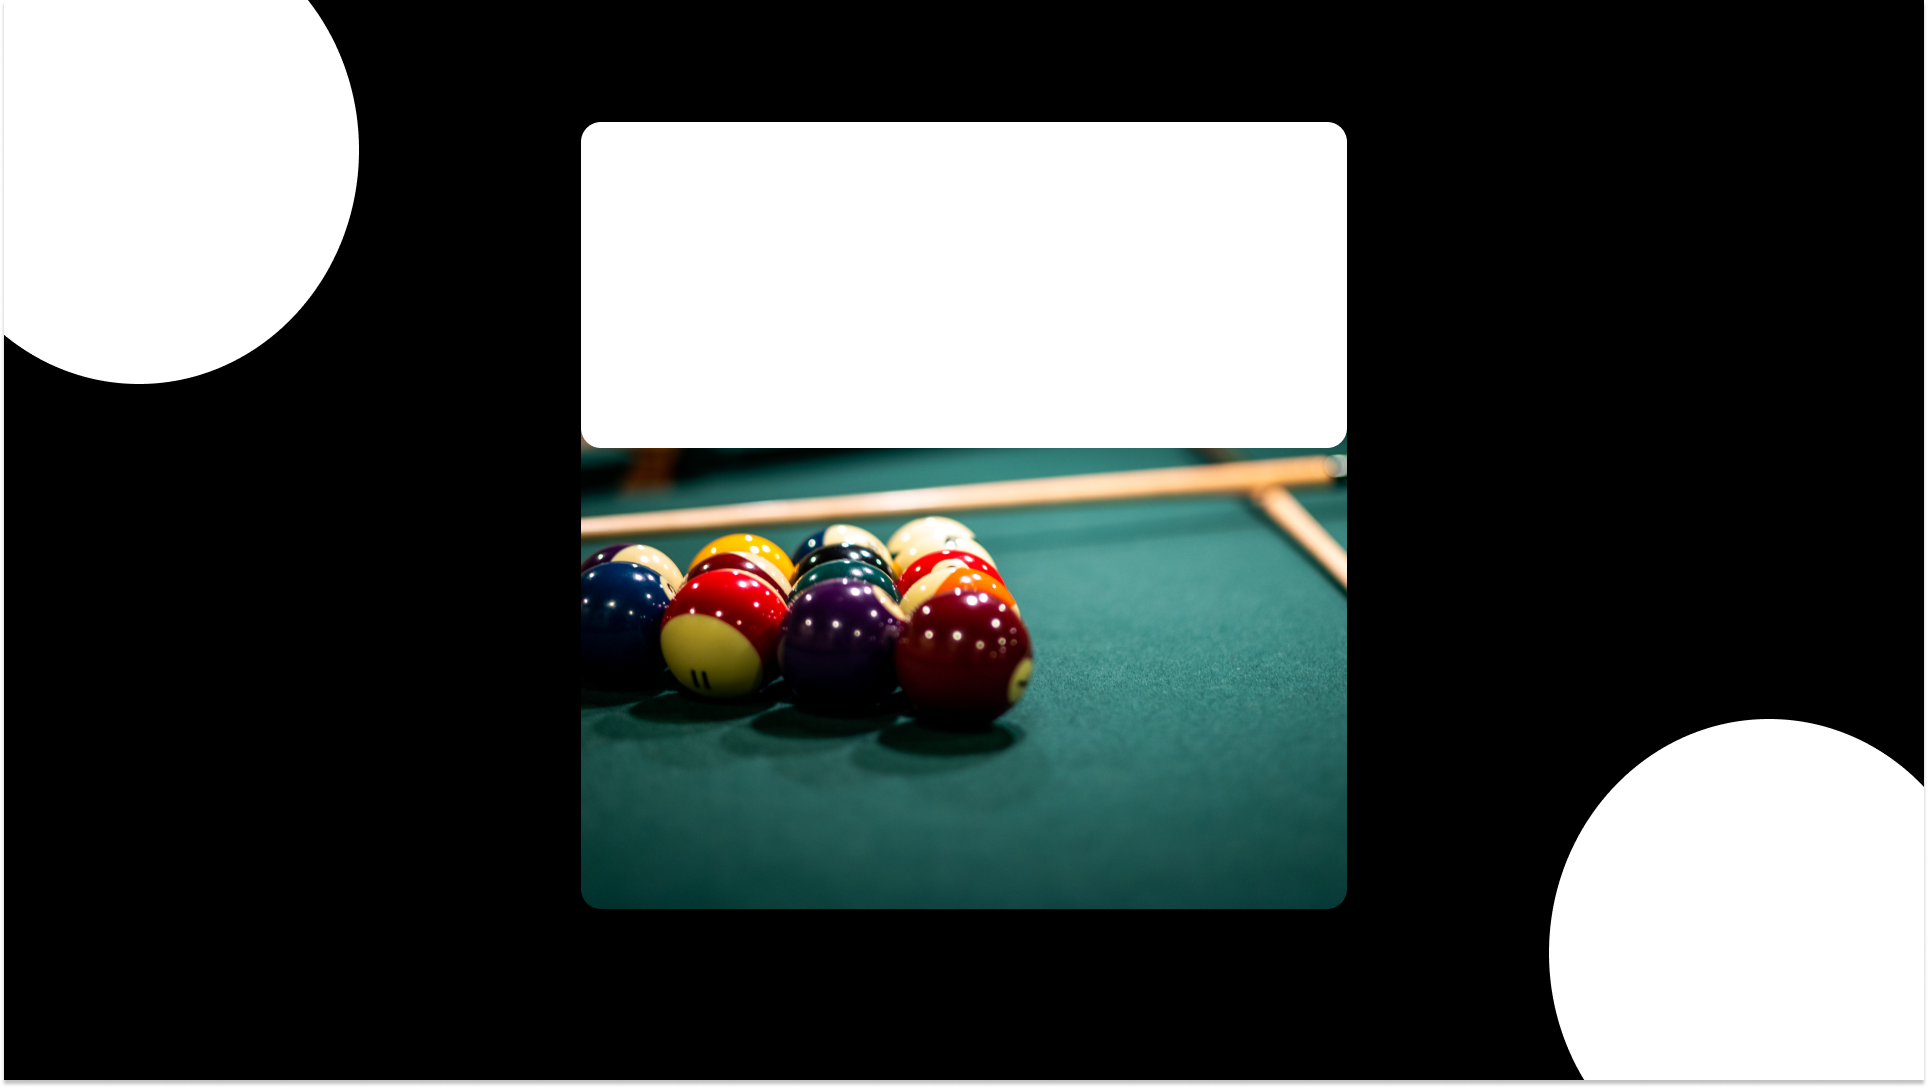
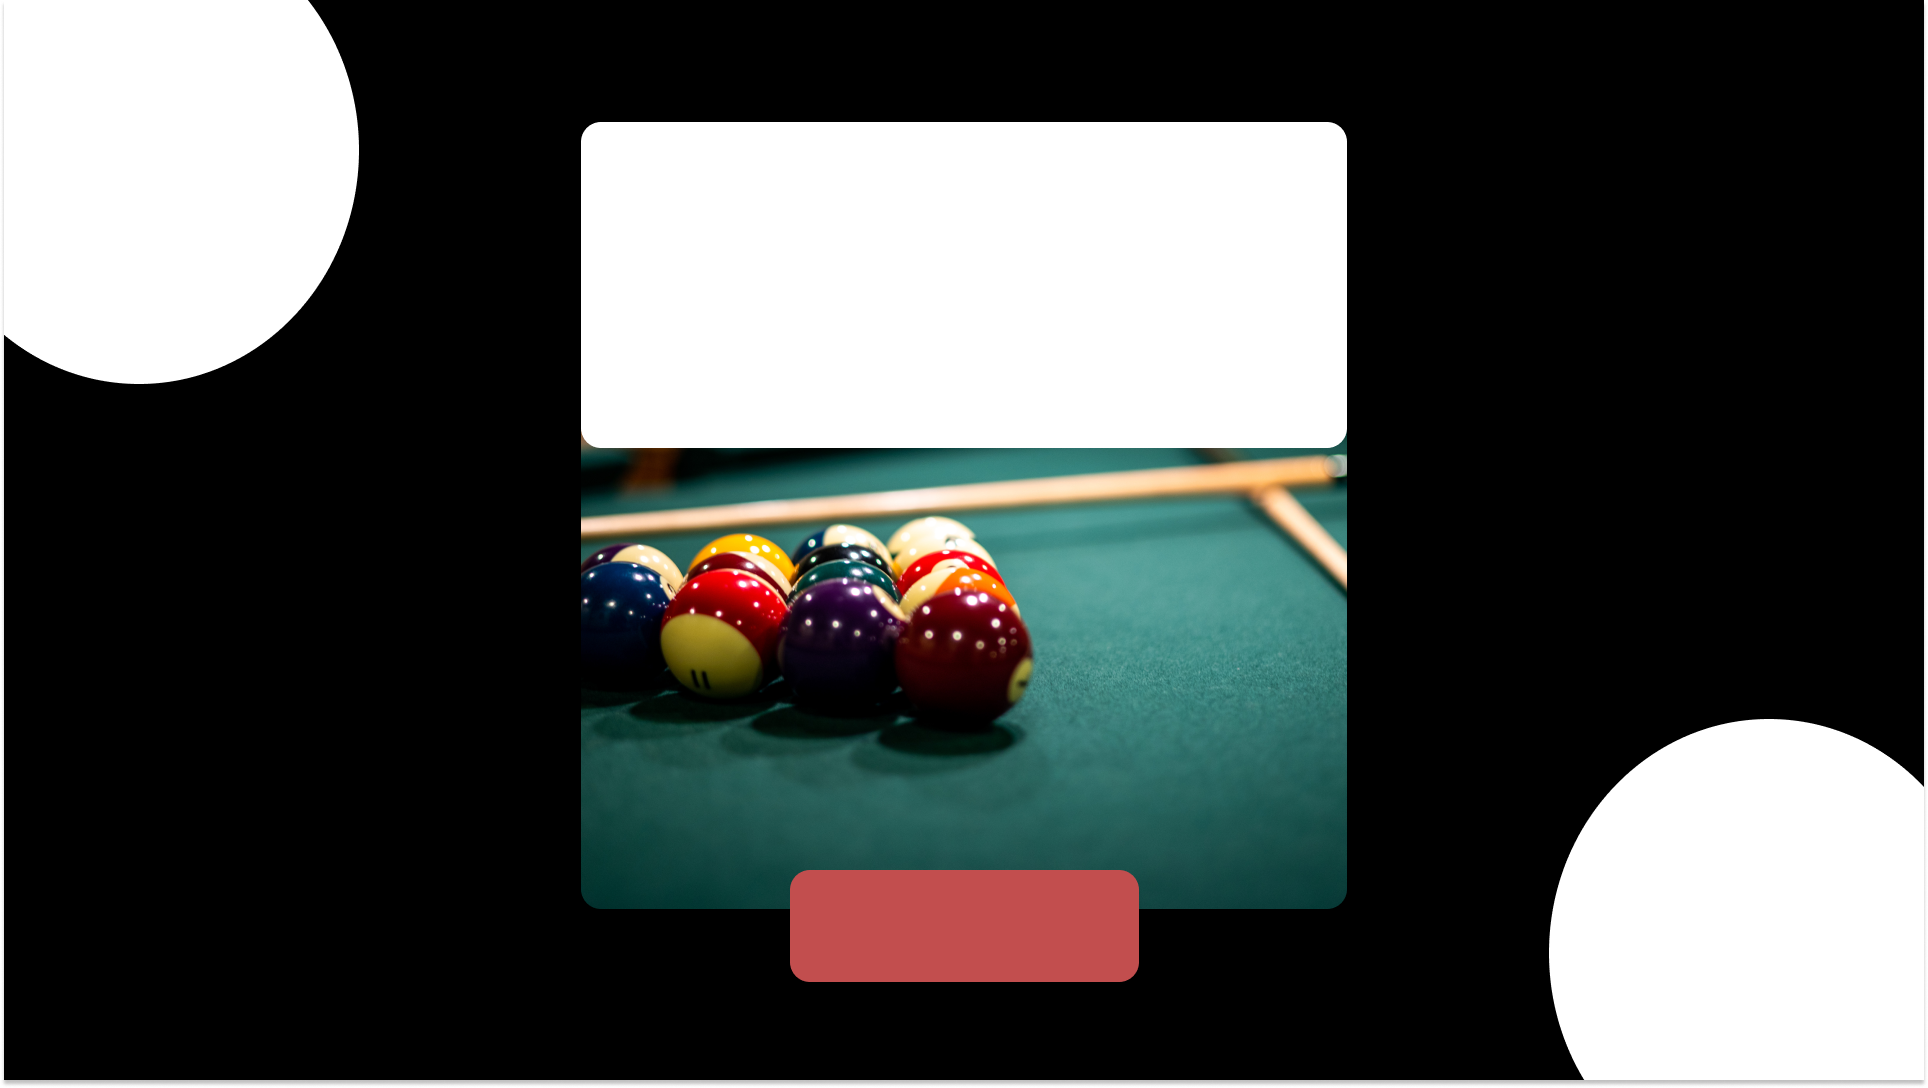
make many page

Changed region(s): [[0.4046, 0.7812, 0.5913, 0.9062]]

diff --git a/Pool-UI.py b/Pool-UI.py
@@ -19,7 +19,7 @@ class Sampleapp(tk.Tk):
         container.grid_columnconfigure(0, weight=1)  
         self.frames = {}  
   
-        for F in (StartPage, PageOne):  
+        for F in (StartPage, PageOne ,TrainMode, Pool8Mode):  
   
             frame = F(container, self)  
             self.frames[F] = frame  
@@ -30,39 +30,81 @@ class Sampleapp(tk.Tk):
     def show_frame(self, cont):  
         frame = self.frames[cont]  
         frame.tkraise()  
-  
-          
+        
+
 class StartPage(tk.Frame):  
   
     def __init__(self, parent, controller):  
         tk.Frame.__init__(self,parent)
         self.bg = PhotoImage(file="Bg-Firstpage.png")
+        self.bgbutton = PhotoImage(file="BG-Button.png")
         bg = Label(self, image=self.bg)
         bg.place(x=0, y=0)
-        button = Button(self, text="Visit Page 1",font=self.Myfont(40),  
+        button = Button(self,text="Start",bg="#C24E4E",fg="white", bd=0,activebackground="#C24E4E",font=self.Myfont(40),   
                             command=lambda: controller.show_frame(PageOne))  
-        button.pack()  
+        button.place(x=810,y=880,width=300,height=100)
+        my_text = Entry(self, justify=CENTER,bg="#FFFFFF",bd=0, font=self.Myfont(50))
+        my_text.insert(0, "Welcome")
+        my_text.pack(padx=140, pady=140)
+        my_tex1 = Entry(self, justify=CENTER,bg="#FFFFFF",bd=0, font=self.Myfont(50))
+        my_tex1.insert(0, "Pool Billiard Assistant")
+        my_tex1.pack(padx=0, pady=0)
 
     def Myfont(self, sizefont):
         self.myfont = Font(family="Londrina Solid", size=sizefont)
         return self.myfont
-  
+    
   
 class PageOne(tk.Frame):  
   
     def __init__(self, parent, controller):  
-        tk.Frame.__init__(self, parent)  
-        label = tk.Label(self, text="Page One!!!", font=self.Myfont(40))  
-        label.pack(pady=10,padx=10)  
-  
-        button1 = tk.Button(self, text="Back to Home",  
-                            command=lambda: controller.show_frame(StartPage))  
-        button1.pack()  
+        tk.Frame.__init__(self, parent) 
+        self.bg = PhotoImage(file="iMac - 14.png")
+        bg = Label(self, image=self.bg)
+        bg.place(x=0, y=0)
+
+        button2 = Button(self,text="Training",bg="#FFFFFF",fg="Black", bd=0,activebackground="#FFFFFF",font=self.Myfont(90),   
+                            command=lambda: controller.show_frame(TrainMode))  
+        button2.pack(pady=140,padx=140)
+        button3 = Button(self,text="8-Pool",bg="Black",fg="#FFFFFF", bd=0,activebackground="Black",font=self.Myfont(90),   
+                            command=lambda: controller.show_frame(Pool8Mode))  
+        button3.pack(pady=110,padx=110)
 
     def Myfont(self, sizefont):
         self.myfont = Font(family="Londrina Solid", size=sizefont)
         return self.myfont
+
+class TrainMode(tk.Frame):  
   
+    def __init__(self, parent, controller):  
+        tk.Frame.__init__(self, parent) 
+        self.bg = PhotoImage(file="bgTraingmode.png")
+        bg = Label(self, image=self.bg)
+        bg.place(x=0, y=0)
+
+        button = Button(self,text="Training",bg="#FFFFFF",fg="Black", bd=0,activebackground="#FFFFFF",font=self.Myfont(40),   
+                            command=lambda: controller.show_frame(PageOne))  
+        button.place(x=530,y=880,width=300,height=100)
+
+    def Myfont(self, sizefont):
+        self.myfont = Font(family="Londrina Solid", size=sizefont)
+        return self.myfont
+
+class Pool8Mode(tk.Frame):  
+  
+    def __init__(self, parent, controller):  
+        tk.Frame.__init__(self, parent) 
+        self.bg = PhotoImage(file="bgpool8.png")
+        bg = Label(self, image=self.bg)
+        bg.place(x=0, y=0)
+
+        button = Button(self,text="Training",bg="#FFFFFF",fg="Black", bd=0,activebackground="#FFFFFF",font=self.Myfont(40),   
+                            command=lambda: controller.show_frame(PageOne))  
+        button.place(x=530,y=880,width=300,height=100)
+
+    def Myfont(self, sizefont):
+        self.myfont = Font(family="Londrina Solid", size=sizefont)
+        return self.myfont
          
 app = Sampleapp()  
 app.title("Pool-Billiard")

diff --git a/tempCodeRunnerFile.py b/tempCodeRunnerFile.py
@@ -1,0 +1,3 @@
+
+        frame.tkraise()  
+  
